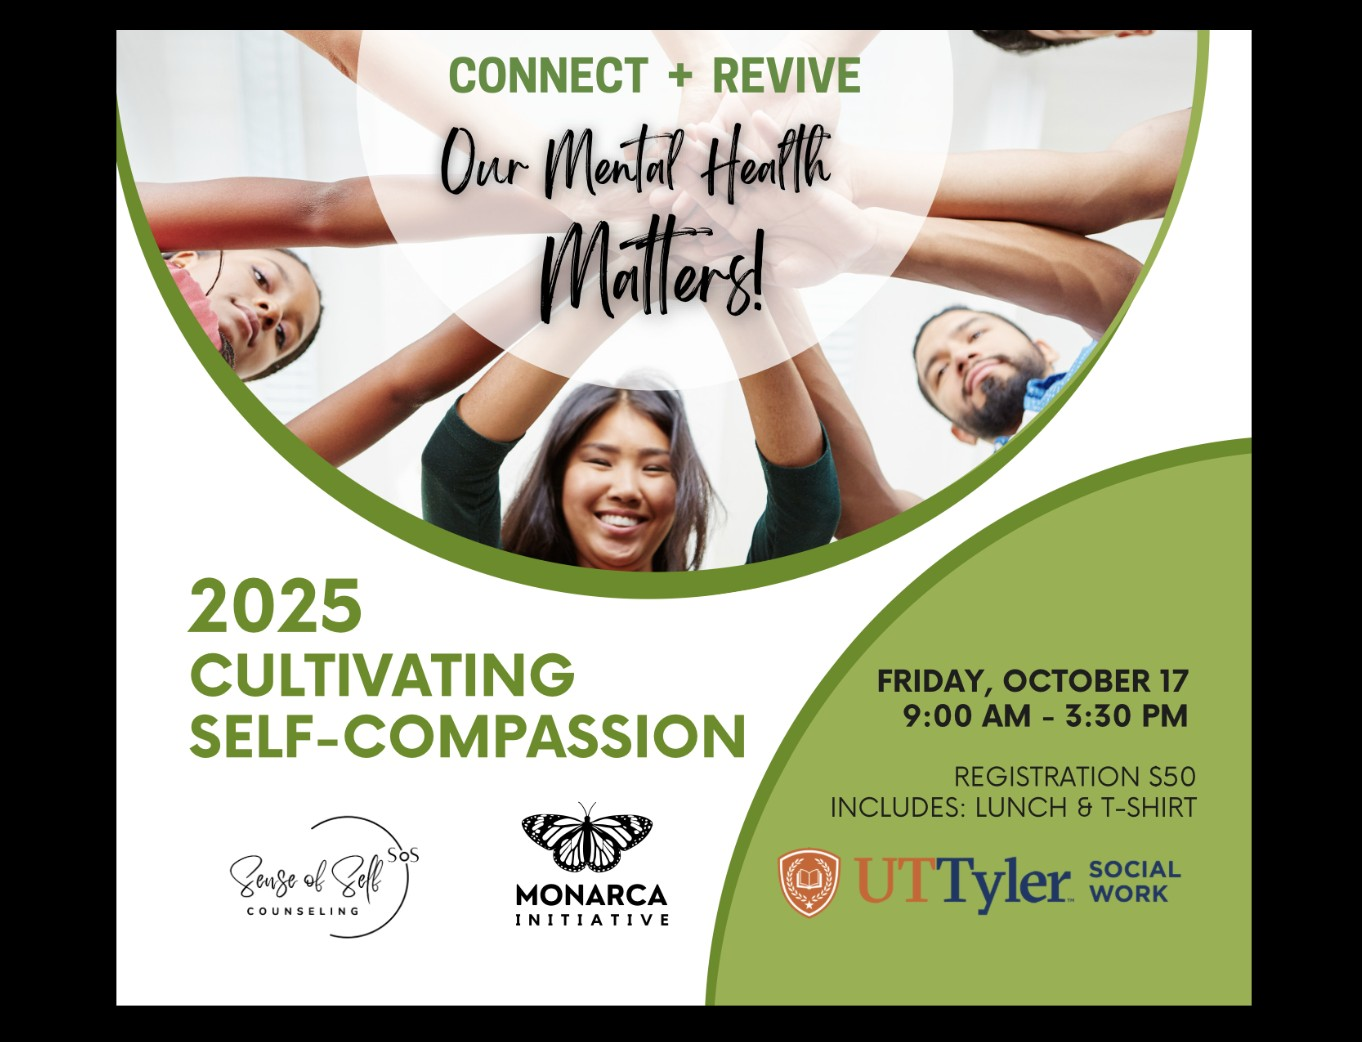
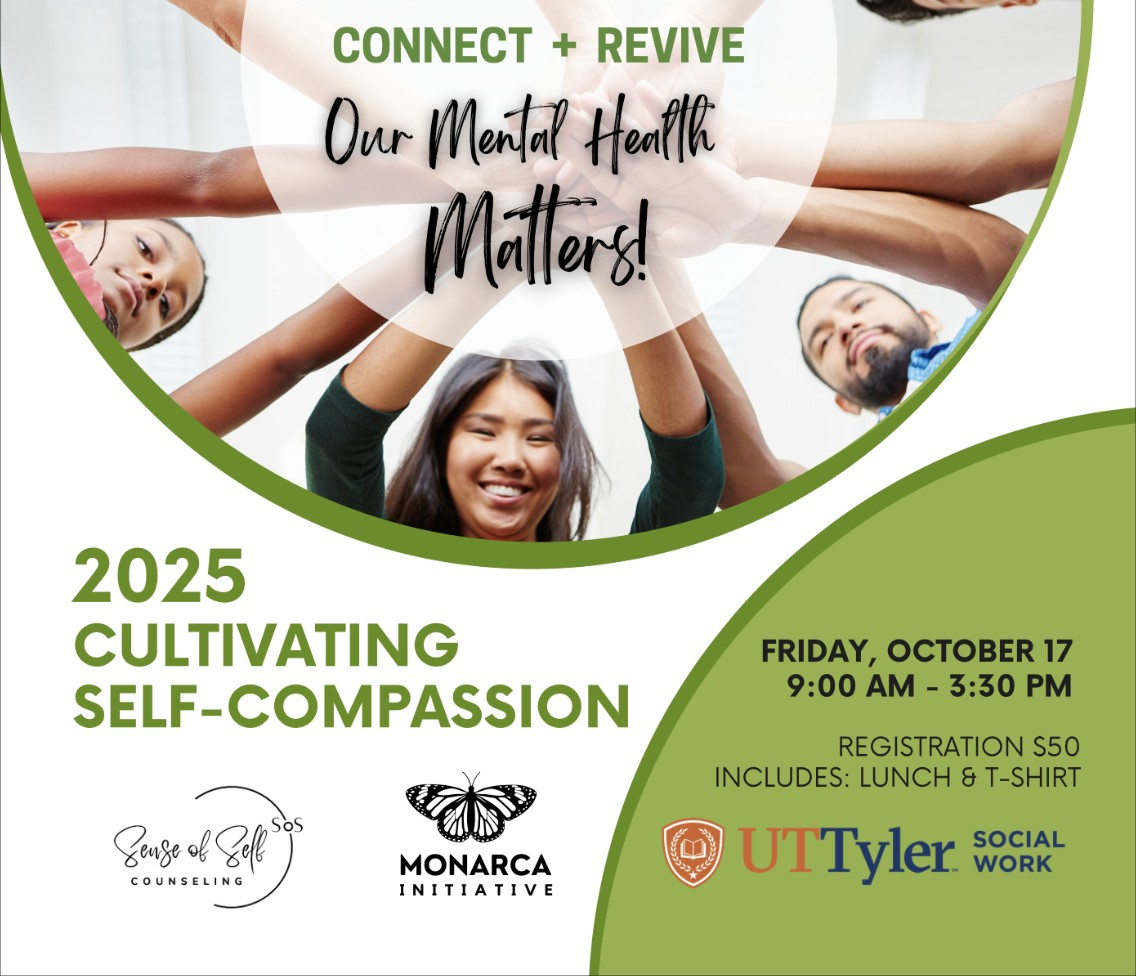
Trim past-events.html to the 4 real events and crop photo borders
Remove the remaining placeholder gradient/icon cards now that real
events are in place, and crop the baked-in black frame and gray
letterbox bars off two of the flyer photos so they sit flush with
the card edges.

Claude-Session: https://claude.ai/code/session_014yQzoyALNR9kYEvUtSEHAV

diff --git a/past-events.html b/past-events.html
@@ -115,72 +115,6 @@
           </div>
         </div>
 
-        <div class="card">
-          <div class="card-media" style="background:linear-gradient(135deg,#8C7A63,#4A3F31);display:flex;align-items:center;justify-content:center;">
-            <svg width="52" height="52" viewBox="0 0 24 24" fill="none" stroke="#FFF8F0" stroke-width="1.7"><circle cx="12" cy="12" r="9"/><path d="M12 3v18M3 12h18"/></svg>
-          </div>
-          <div class="card-body">
-            <span class="card-tag" data-es="Cultura">Culture</span>
-            <h3 data-es="Celebración de Baile Folklórico">Baile Folklórico Celebration</h3>
-            <p data-es="Familias de todo el este de Texas se reunieron para celebrar la cultura hispana y latina a través de la danza y la música.">Families from across East Texas gathered to celebrate Hispanic and Latino culture through dance and music.</p>
-          </div>
-        </div>
-
-        <div class="card">
-          <div class="card-media" style="background:linear-gradient(135deg,#8C7A63,#4A3F31);display:flex;align-items:center;justify-content:center;">
-            <svg width="52" height="52" viewBox="0 0 24 24" fill="none" stroke="#FFF8F0" stroke-width="1.7"><path d="M20.8 4.6a5.5 5.5 0 0 0-7.8 0L12 5.6l-1-1a5.5 5.5 0 1 0-7.8 7.8l1 1L12 21l7.8-7.6 1-1a5.5 5.5 0 0 0 0-7.8Z"/></svg>
-          </div>
-          <div class="card-body">
-            <span class="card-tag" data-es="Salud y Bienestar">Health &amp; Wellness</span>
-            <h3 data-es="Seminario de Salud Mental">Mental Health Seminar</h3>
-            <p data-es="Un espacio seguro para hablar sobre bienestar emocional, con herramientas prácticas de autocompasión.">A safe space to talk about emotional wellbeing, with practical self-compassion tools participants could take home.</p>
-          </div>
-        </div>
-
-        <div class="card">
-          <div class="card-media" style="background:linear-gradient(135deg,#8C7A63,#4A3F31);display:flex;align-items:center;justify-content:center;">
-            <svg width="52" height="52" viewBox="0 0 24 24" fill="none" stroke="#FFF8F0" stroke-width="1.7"><path d="M3 21h18M5 21V9l7-6 7 6v12M9 21v-6h6v6"/></svg>
-          </div>
-          <div class="card-body">
-            <span class="card-tag" data-es="Alianza">Partnership</span>
-            <h3 data-es="Lanzamiento de Greener CASA">Greener CASA Kickoff</h3>
-            <p data-es="Junto a UT Tyler, lanzamos un programa para ayudar a las familias a hacer sus hogares más eficientes y sostenibles.">Alongside UT Tyler, we launched a program helping families make their homes more efficient and sustainable.</p>
-          </div>
-        </div>
-
-        <div class="card">
-          <div class="card-media" style="background:linear-gradient(135deg,#8C7A63,#4A3F31);display:flex;align-items:center;justify-content:center;">
-            <svg width="52" height="52" viewBox="0 0 24 24" fill="none" stroke="#FFF8F0" stroke-width="1.7"><path d="M6.5 2H20v20H6.5A2.5 2.5 0 0 1 4 19.5v-15A2.5 2.5 0 0 1 6.5 2Z"/><path d="M8 7h8M8 11h8"/></svg>
-          </div>
-          <div class="card-body">
-            <span class="card-tag" data-es="Educación">Education</span>
-            <h3 data-es="Graduación del Programa GED">GED Program Graduation</h3>
-            <p data-es="Celebramos a los adultos que completaron su preparación para el GED en español — un logro compartido por toda la comunidad.">We celebrated adults who completed their Spanish-language GED prep — an achievement shared by the whole community.</p>
-          </div>
-        </div>
-
-        <div class="card">
-          <div class="card-media" style="background:linear-gradient(135deg,#8C7A63,#4A3F31);display:flex;align-items:center;justify-content:center;">
-            <svg width="52" height="52" viewBox="0 0 24 24" fill="none" stroke="#FFF8F0" stroke-width="1.7"><path d="M17 21v-2a4 4 0 0 0-4-4H7a4 4 0 0 0-4 4v2"/><circle cx="10" cy="7" r="4"/></svg>
-          </div>
-          <div class="card-body">
-            <span class="card-tag" data-es="Comunidad">Community</span>
-            <h3 data-es="Jornada de Ciudadanía y Licencia de Conducir">Citizenship &amp; Driver's License Day</h3>
-            <p data-es="Voluntarios ayudaron a decenas de familias a prepararse para exámenes clave de ciudadanía y manejo.">Volunteers helped dozens of families prepare for key citizenship and driving exams in one community-wide event.</p>
-          </div>
-        </div>
-
-        <div class="card">
-          <div class="card-media" style="background:linear-gradient(135deg,#8C7A63,#4A3F31);display:flex;align-items:center;justify-content:center;">
-            <svg width="52" height="52" viewBox="0 0 24 24" fill="none" stroke="#FFF8F0" stroke-width="1.7"><path d="m3 11 18-8-8 18-2-8-8-2Z"/></svg>
-          </div>
-          <div class="card-body">
-            <span class="card-tag" data-es="Narración">Storytelling</span>
-            <h3 data-es="Noche de Narración en Español">Spanish Storytelling Night</h3>
-            <p data-es="Familias compartieron historias y tradiciones orales, fortaleciendo lazos entre generaciones.">Families shared oral stories and traditions, strengthening bonds across generations.</p>
-          </div>
-        </div>
-
       </div>
     </div>
   </section>
